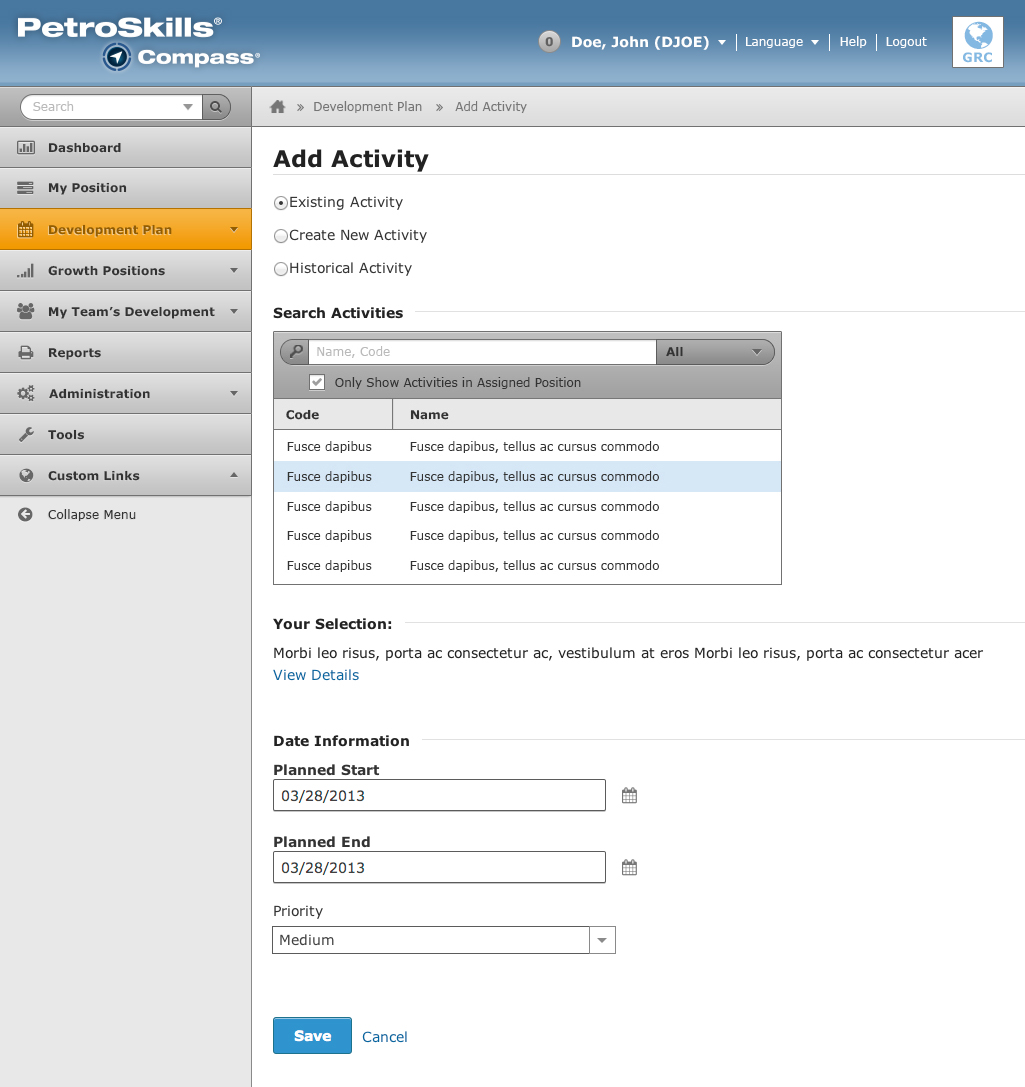
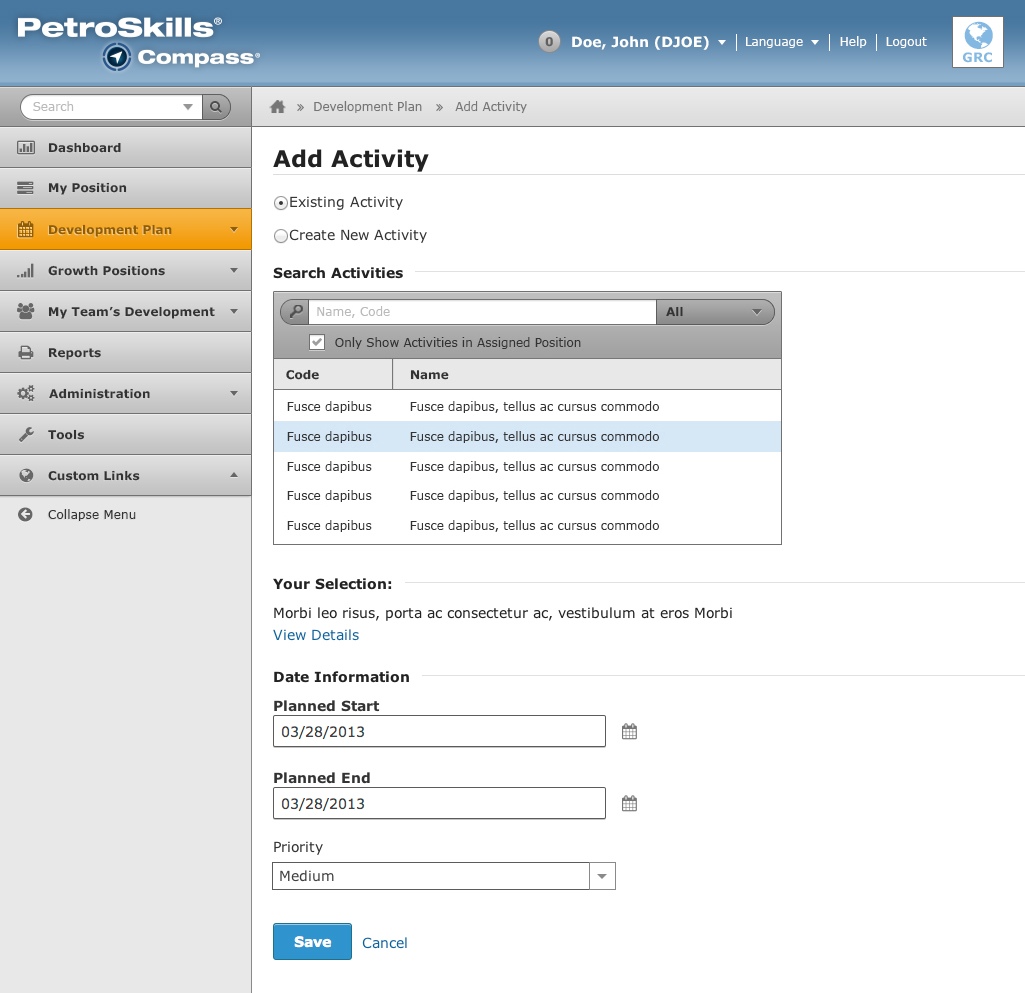
Remove "Add Historical Activity" from style guide. Update Add Activity screenshots. Remove link to "Add Historical Activity" demo from prototype.html page.

Changed region(s): [[0.0, 0.0, 1.0, 0.6556], [0.2498, 0.6868, 0.6244, 0.9678], [0.5932, 0.718, 0.6244, 0.7492]]

diff --git a/add-activity.html b/add-activity.html
@@ -114,16 +114,7 @@
           <img src="images/petrocore-add-activity-new.jpg" alt="Create New Activity" style="border: 1px solid #717171;"><br><br><br>
           <p><a href="demo/petrocore-my-position-add-activity-new.html" target="_blank">View Demo</a></p>
 
-          <h3>Historical Activity</h3>
-          <p>When a user selects to add a historical activity they will need to enter the following information to create it.</p>
-          <ul class="square">
-            <li><strong>Search Activities:</strong> User can search for the activity by name and/or code. This feature has a auto-completion filter. As the user types each character, the search results will filter according to what was typed. For example, if the user types in "a", all search results with the letter "a" will display. The All option for the search let the user select classifiers and subclassifier to apply as filters to the serach results.</li>
-            <li><strong>Date Information:</strong> Once the user selects their activity (shown in "Your Selection"), they must assign a Completion Date for it.</li>
 
-          </ul>
-          <img src="images/petrocore-add-activity-historical.jpg" alt="Create New Activity" style="border: 1px solid #717171;"><br><br>
-          <p><a href="demo/petrocore-my-position-add-activity-historical.html" target="_blank">View Demo</a></p>
-          <br>
           </div>
     </div>
   </div>

diff --git a/prototype.html b/prototype.html
@@ -186,10 +186,6 @@
             <td>demo/petrocore-my-position-add-activity-existing.html</td>
           </tr>
           <tr>
-            <td><a href="demo/petrocore-my-position-add-activity-historical.html">Add Activity - Historical</a></td>
-            <td>demo/petrocore-my-position-add-activity-historical.html</td>
-          </tr>
-          <tr>
             <td><a href="demo/petrocore-my-position-add-activity-new.html">Add Activity - New</a></td>
             <td>demo/petrocore-my-position-add-activity-new.html</td>
           </tr>
